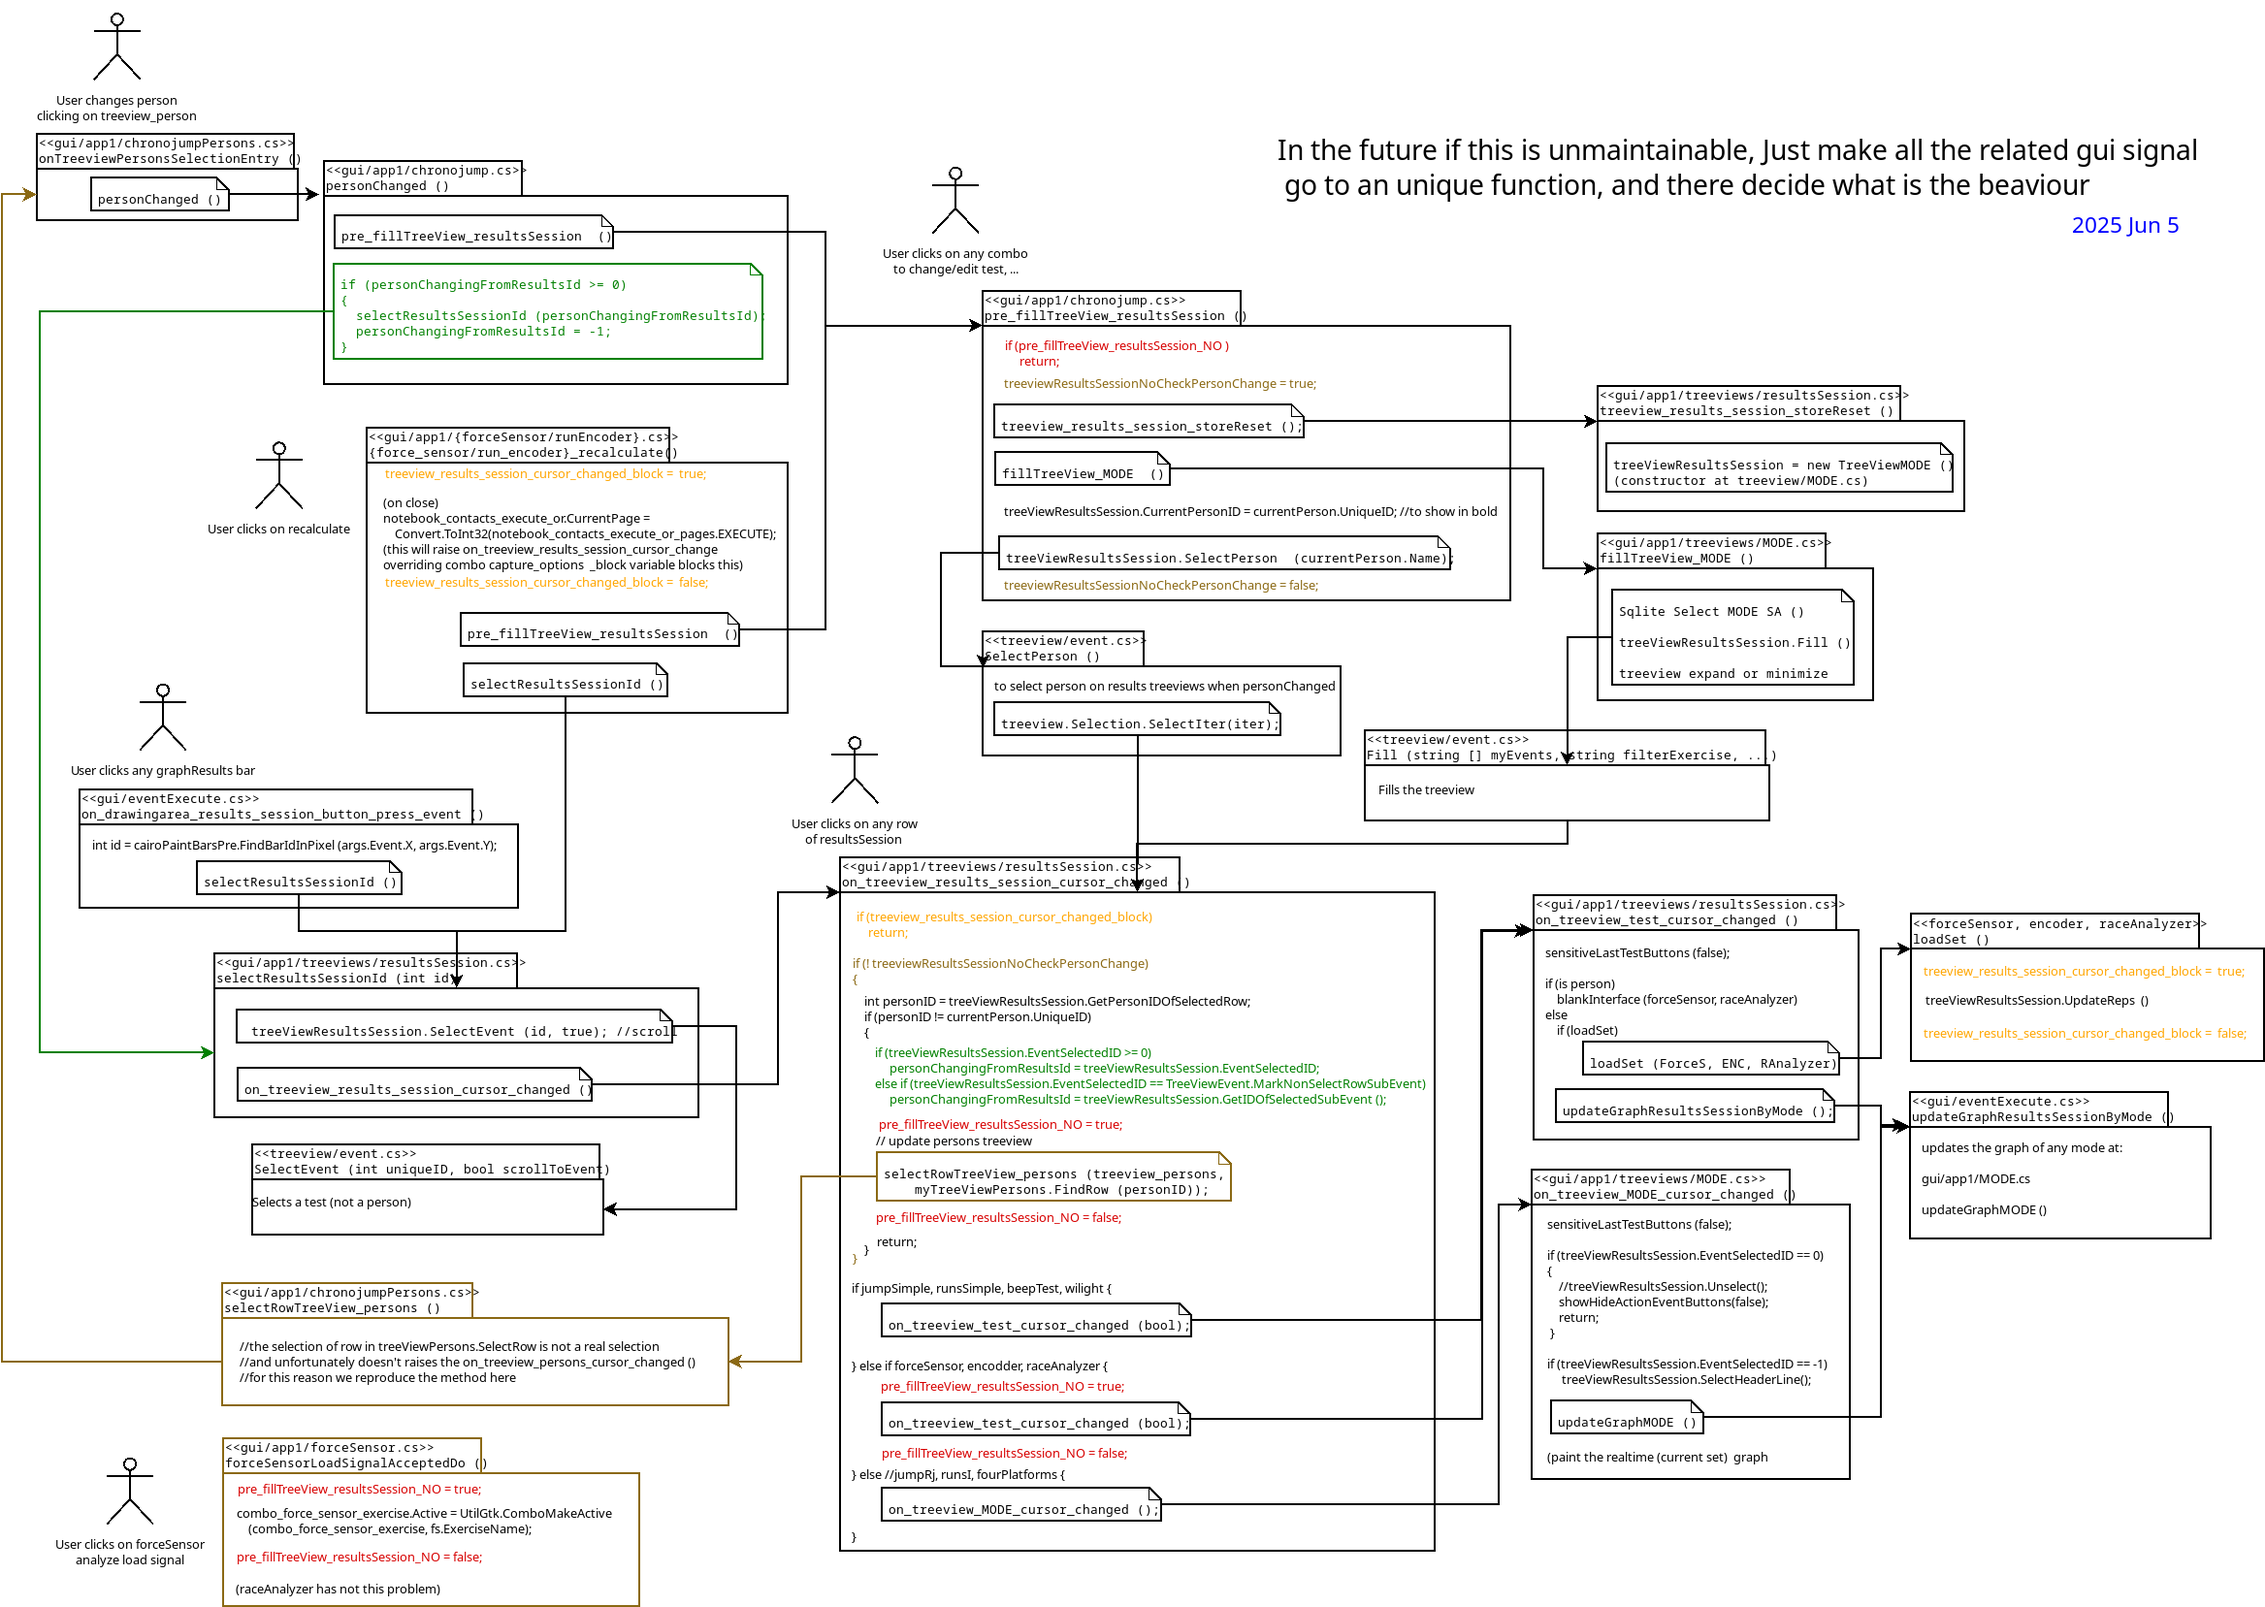
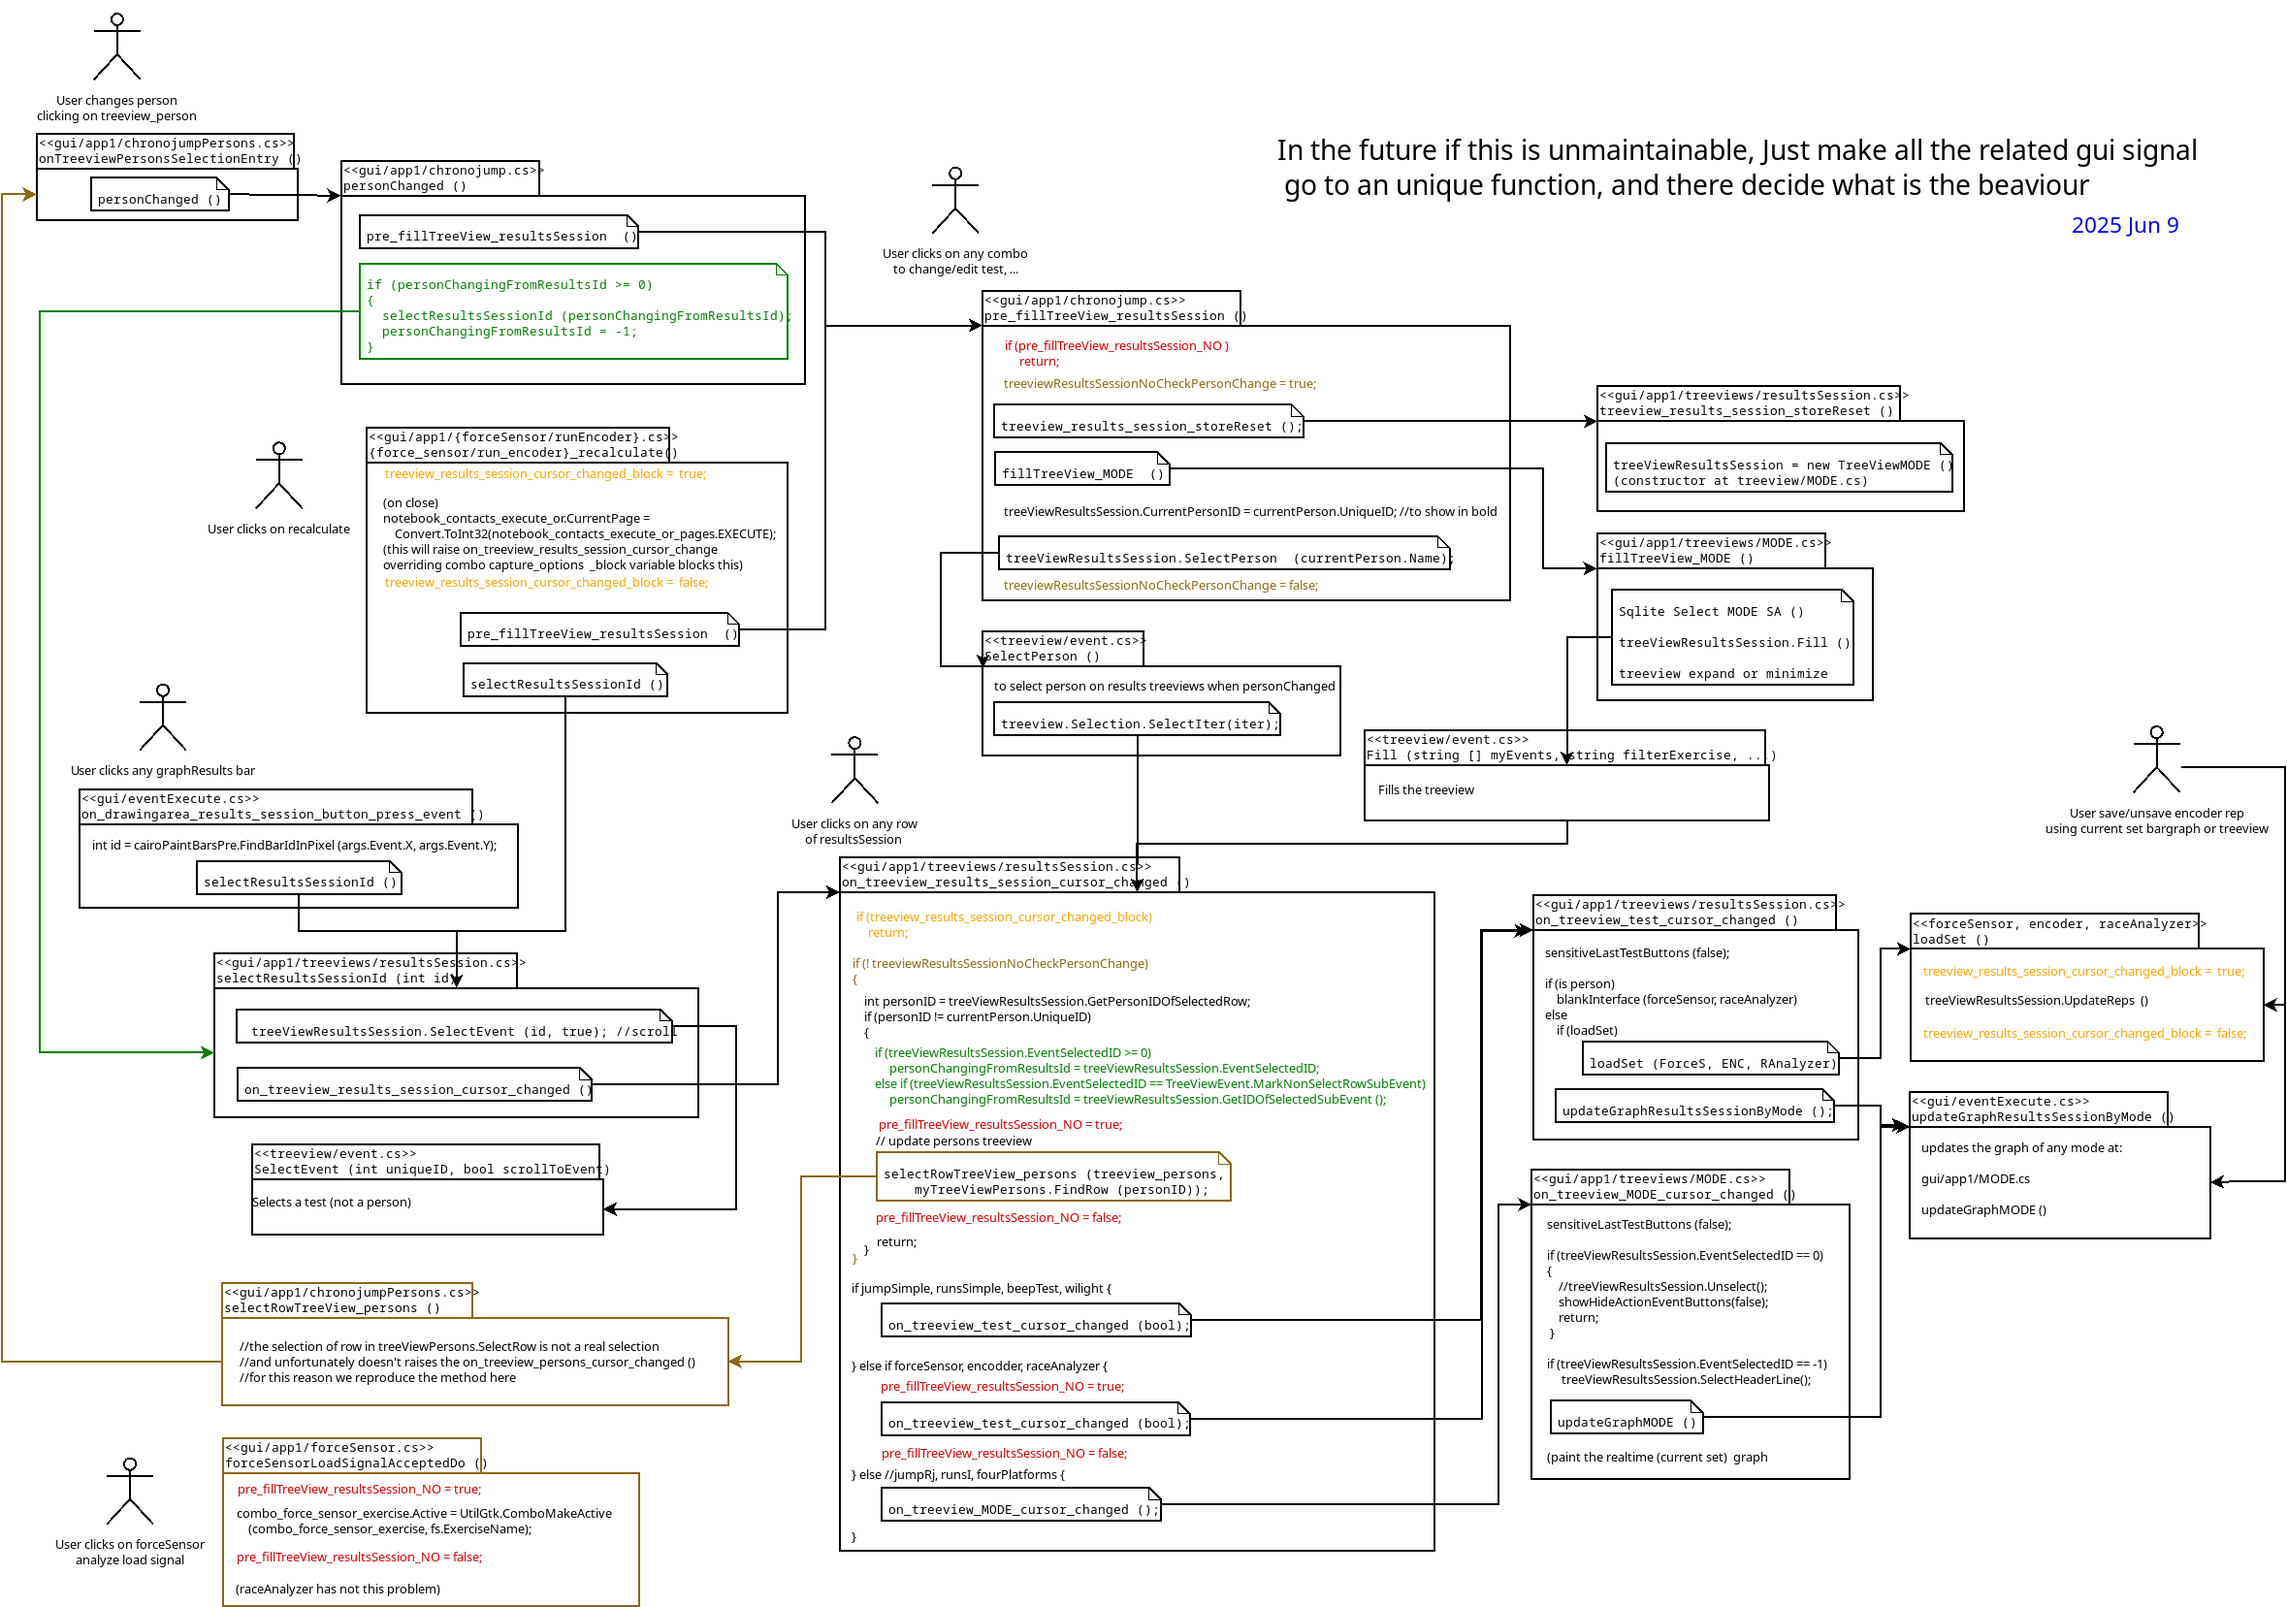
Updated person_results_changes.dia

diff --git a/src/gui/app1/encoder.cs b/src/gui/app1/encoder.cs
@@ -7832,7 +7832,7 @@ public partial class ChronoJumpWindow
 					
 					Sqlite.Close();
 
-					if (action == encoderActions.LOAD)
+					if (action == encoderActions.LOAD) // see: diagrams/processes/person_results_changes.dia
 					{
 						SqliteEncoder se = new SqliteEncoder ();
 						treeview_results_session_cursor_changed_block = true; //to block cursor_change on store.Remove ()

diff --git a/src/gui/app1/treeviews/encoderCaptureCurrentSet.cs b/src/gui/app1/treeviews/encoderCaptureCurrentSet.cs
@@ -376,6 +376,7 @@ public partial class ChronoJumpWindow
 			callPlotCurvesGraphDoPlot();
 
 			// update the treeviewResultsSession without changing again current set widgets
+			// see: diagrams/processes/person_results_changes.dia
 			SqliteEncoder se = new SqliteEncoder ();
 			treeview_results_session_cursor_changed_block = true; //to block cursor_change on store.Remove ()
 
